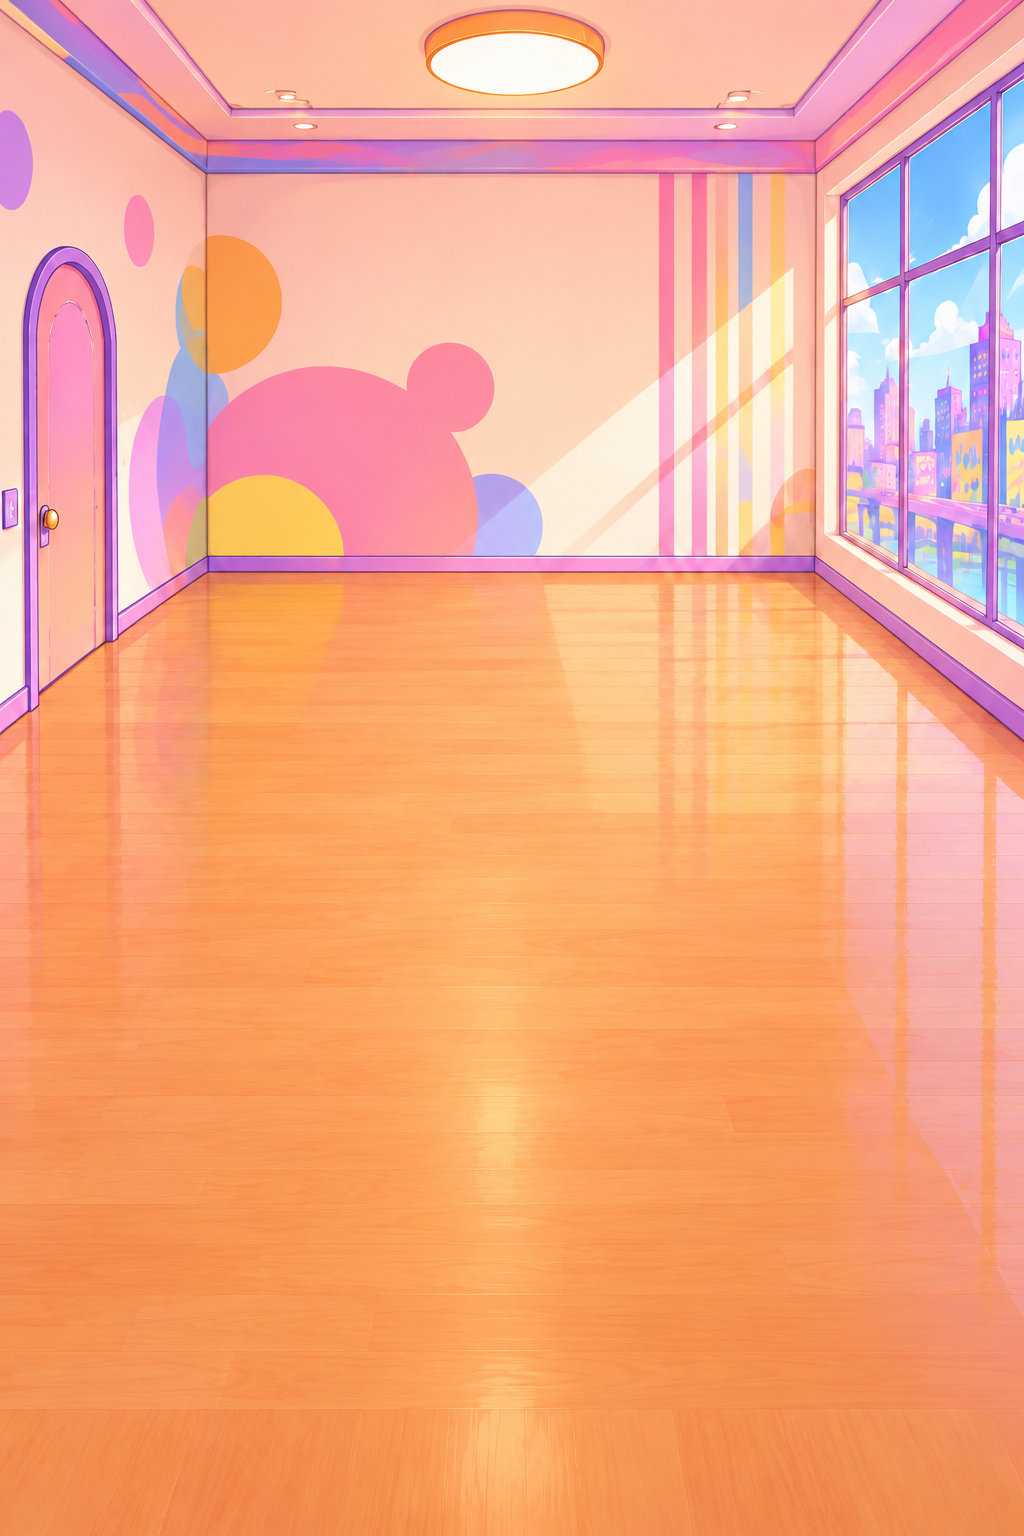
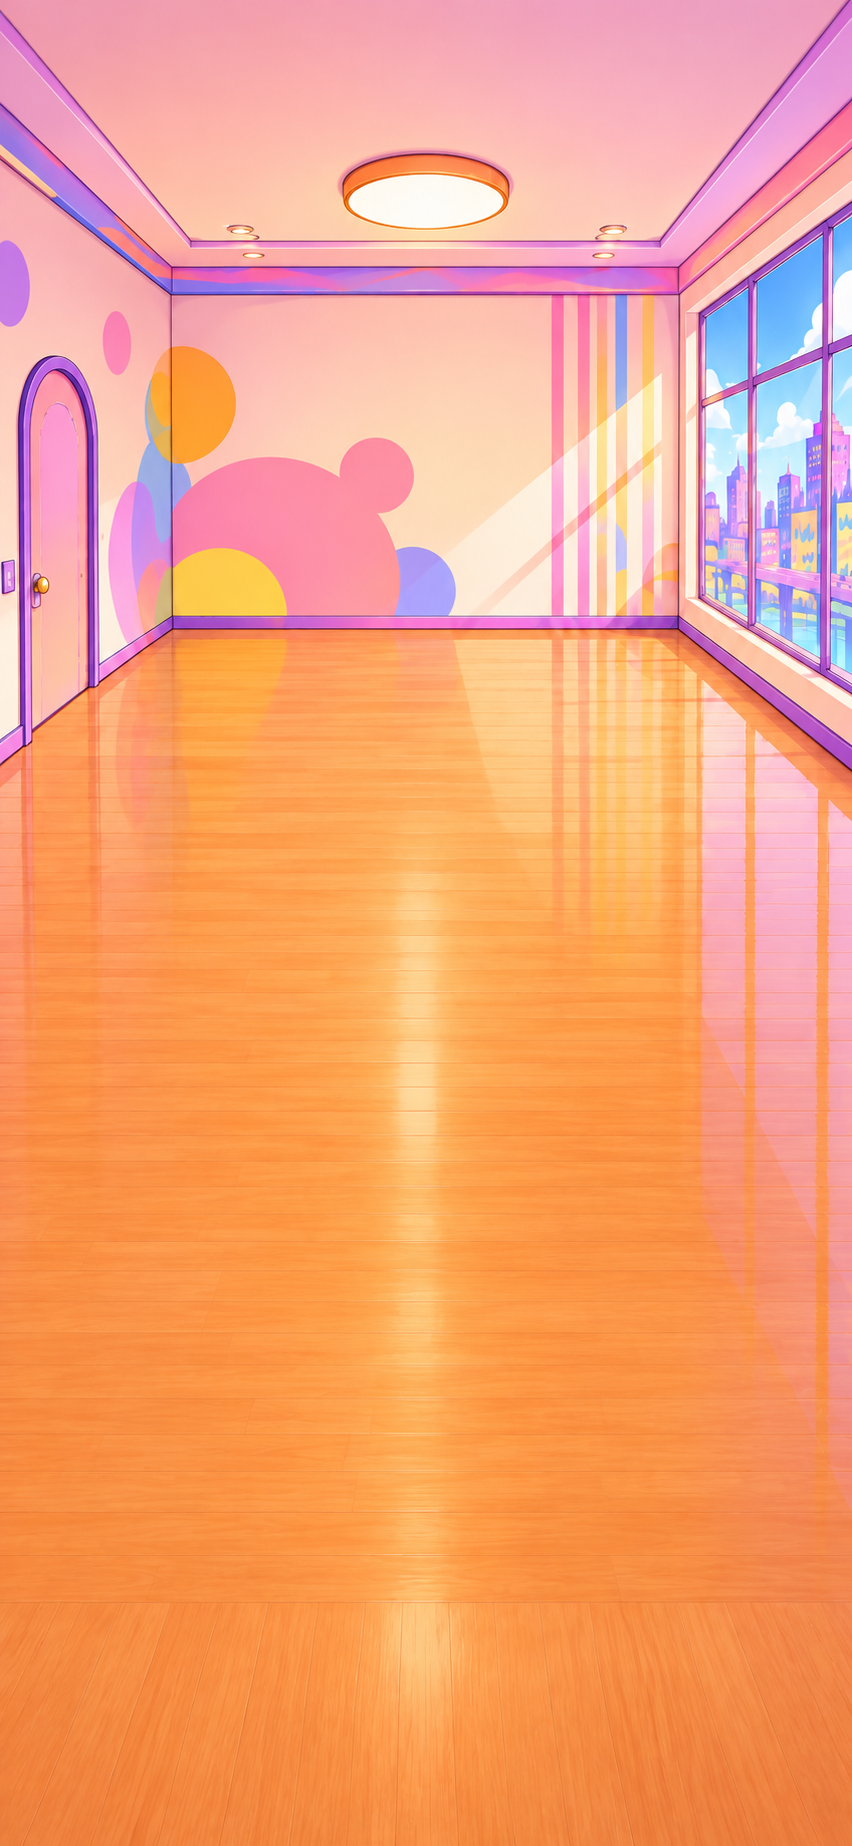
POP ROOMを全画面用の縦長の絵に
Claude-Session: https://claude.ai/code/session_01MXithgTc5umkveoyZShZHQ

diff --git a/src/core/home.ts b/src/core/home.ts
@@ -90,7 +90,8 @@ const ROOM_FLOOR: Pt[] = [[300, 640], [770, 640], [960, 800], [985, 1290], [40, 
 export const HOME_LAYOUTS: Record<HomePlace, HomeLayout> = {
   // 2026-11-08 全画面用の 縦長の 絵(852x1846)。床・家具の 場所・奥行きの 点を この 絵で 測りなおした
   street: { w: 852, h: 1846, floor: [[250, 700], [630, 700], [800, 850], [830, 1600], [30, 1600], [50, 850]], scale: [0.09, 0.2], furniture: [[205, 660], [665, 660], [852, 790], [852, 1640], [0, 1640], [0, 800]], vanish: [428, 450] },
-  pop: { w: 1024, h: 1536, floor: ROOM_FLOOR, scale: [0.09, 0.19], furniture: [[205, 576], [815, 576], [1024, 740], [1024, 1290], [0, 1290], [0, 730]], vanish: [517, 342] },
+  // 2026-11-08 全画面用の 縦長の 絵(852x1846)。床などを この 絵で 測りなおした
+  pop: { w: 852, h: 1846, floor: [[215, 660], [640, 660], [800, 800], [830, 1600], [30, 1600], [50, 800]], scale: [0.09, 0.2], furniture: [[175, 628], [678, 628], [852, 770], [852, 1640], [0, 1640], [0, 760]], vanish: [439, 430] },
   // シークレットVIPルーム(企画者の絵 2026-10-22)
   room4: { w: 1024, h: 1536, floor: [[300, 600], [770, 600], [960, 780], [985, 1290], [40, 1290], [60, 780]], scale: [0.09, 0.19], furniture: [[250, 530], [812, 526], [1024, 690], [1024, 1290], [0, 1290], [0, 682]], vanish: [568, 339] },
   future: { w: 1024, h: 1536, floor: ROOM_FLOOR, scale: [0.09, 0.19], furniture: [[240, 584], [815, 584], [1024, 735], [1024, 1290], [0, 1290], [0, 720]], vanish: [562, 401] },

diff --git a/src/scenes/HomeScene.ts b/src/scenes/HomeScene.ts
@@ -39,7 +39,7 @@ const DEPTH = { monz: 10, effect: 30, ui: 40, popup: 60 };
 
 /** 企画者の部屋の絵(design/home/rooms/ → public/assets/home/rooms/)。_thumb は部屋を選ぶ画面の小さい絵 */
 /** 作り直した 部屋の 絵(2026-11-08 全画面用。名前を 変えて 古い 絵と まざらないように) */
-const ROOM_FILE_NAME: Partial<Record<HomePlace, string>> = { street: 'street_v2' };
+const ROOM_FILE_NAME: Partial<Record<HomePlace, string>> = { street: 'street_v2', pop: 'pop_v2' };
 export const homeImageFile = (p: HomePlace, thumb = false) => `assets/home/rooms/${ROOM_FILE_NAME[p] ?? p}${thumb ? '_thumb' : ''}.webp`;
 export const homeImageKey = (p: HomePlace, thumb = false) => `home:bg:${p}${thumb ? ':thumb' : ''}`;
 
